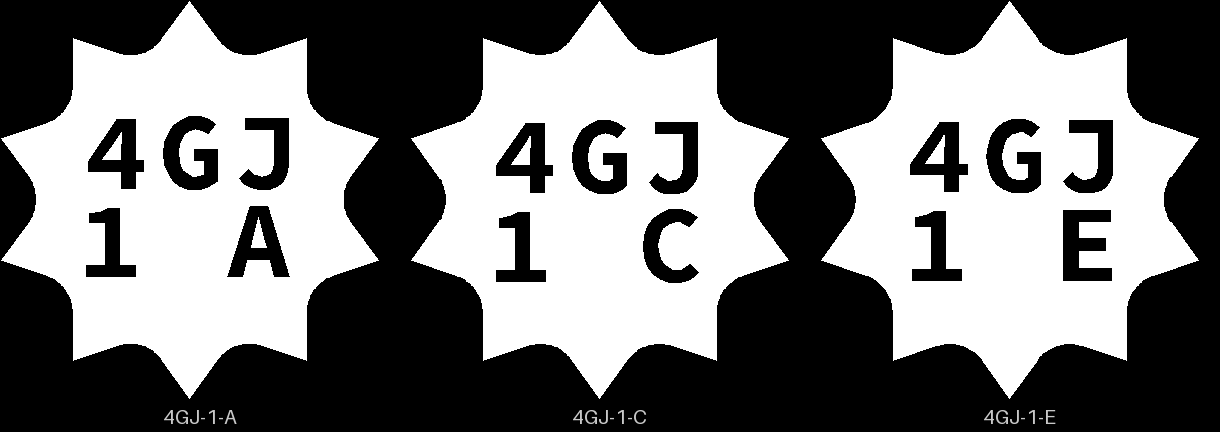
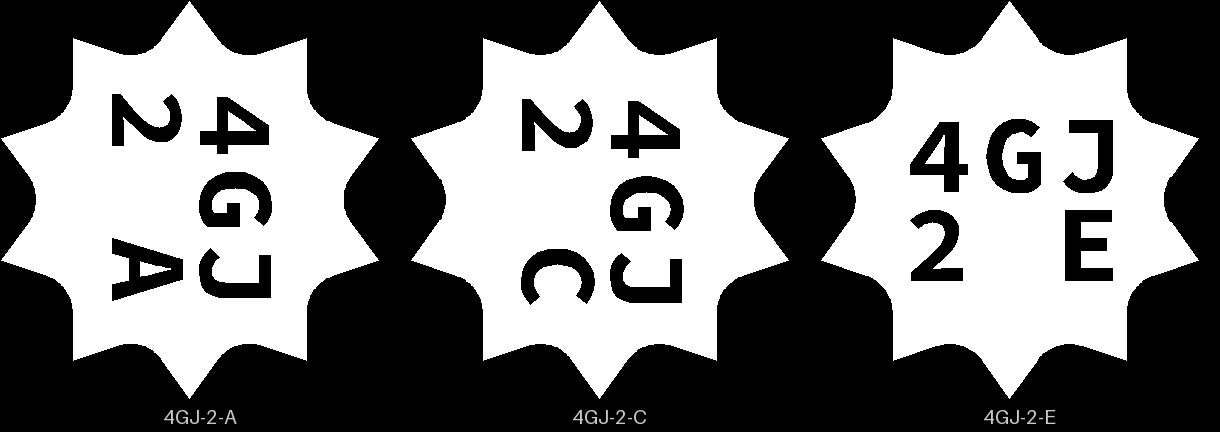
plates: sheets-04g-fit3 iteration 2 — a 3 coaster, and the kite step read off the slice
- The coaster carries `3`, not `Z`: `id_form: piece` cuts one
  character, and three Z coasters could not be told apart on the
  table. Recorded with plate_approve --iterate (iteration 2), so the
  middle pieces now read 4GJ 2A, 2C, 2E. Pictures redrawn, and the
  coaster's bottom added.
- tools/fit_gap.py: `walls` handed each loop to the nearest expected
  size, and with the kites at 0.05 and 0.075 (0.3 mm² apart) every
  loop went to the 0.05 group. It now pairs whole slice objects to
  groups by size when as many objects as groups come near; a self-test
  covers it. fit2's middles still read +0.001/+0.025/+0.051.
- The page's new "What the slice lays down": the 0.025 kite step
  survives the slice at every height.
- Backlog: a one-letter bottom id leaves the gBV minimal coaster's mesh
  open (bikar's check fails it), and compose renders without --check.
- The issue doc: the fit moved "not in the outlines or the settings",
  narrower than "not in the files".

Claude-Session: https://claude.ai/code/session_01BsHUAhF5DsA3qgXDY11oZz

Changed region(s): [[0.0623, 0.2106, 0.2492, 0.6921], [0.4049, 0.2407, 0.5918, 0.7222], [0.7475, 0.4815, 0.8098, 0.6319]]

diff --git a/tools/fit_gap.py b/tools/fit_gap.py
@@ -349,12 +349,27 @@ def assign_loops(ls, groups, target, shared=False):
     return out
 
 
+def assign_objects(objs, groups, target):
+    """Piece wall loops to groups, a whole slice object at a time. Each group is its own object
+    on the plate, so when as many objects as groups come near a group's expected loop area, they
+    pair in order of size: the biggest object with the biggest group. Loop by loop, a step
+    smaller than the slicer's own offset sends every loop to one group (sheets-04g-fit3's kites
+    at 0.05 and 0.075, 0.3 mm² apart, all twenty went to the 0.05). Otherwise, loop by loop."""
+    mean = lambda ls: sum(abs(area(lw[0])) for lw in ls) / len(ls)
+    near = {o: ls for o, ls in objs.items()
+            if ls and any(abs(math.log(mean(ls) / target(groups[g]))) < 0.5 for g in groups)}
+    if len(near) == len(groups) > 1:
+        by_size = sorted(near, key=lambda o: mean(near[o]))
+        return {g: near[o] for g, o in zip(sorted(groups, key=lambda g: target(groups[g])), by_size)}
+    return assign_loops([lw for ls in near.values() for lw in ls], groups, target)
+
+
 def walls_report(plate, frame, pieces, z):
     text = plate_gcode(plate)
     h, objs = gcode_walls(text, z)
     frame_label = max(objs, key=lambda o: len(objs[o]))
     pocket_loops = sorted(objs[frame_label], key=lambda lw: abs(area(lw[0])))[:-1]  # drop the rim
-    piece_loops = [lw for o, ls in objs.items() if o != frame_label for lw in ls]
+    piece_objs = {o: ls for o, ls in objs.items() if o != frame_label}
     loops = slice_loops(load_triangles(frame), z)
     print(f"slicer outer walls on the layer at z = {h} mm (frame object {frame_label})")
     print(f"{'group':8} {'width':>5} {'pieces':>6} {'piece edge in':>13} {'pockets':>7} "
@@ -369,7 +384,7 @@ def walls_report(plate, frame, pieces, z):
         if m is not None:
             groups[Path(path).stem] = (m, shape(m["_piece"]), shape(m["_pocket"]))
 
-    piece_of = assign_loops(piece_loops, groups, lambda s: s[1][0] - s[1][1] * 0.21)
+    piece_of = assign_objects(piece_objs, groups, lambda s: s[1][0] - s[1][1] * 0.21)
     pocket_of = assign_loops(pocket_loops, groups, lambda s: s[2][0] + s[2][1] * 0.21, shared=True)
     for g, (m, (A, P, k), (Ah, Ph, kh)) in groups.items():
         mine, holes = piece_of[g], pocket_of[g]
@@ -447,6 +462,14 @@ def self_test():
         ("a ladder's piece loops go one to each group",
          [len(pieces["g0"]), len(pieces["g1"])] == [1, 1] and pieces["g1"][0][0] == sq(4.9)),
         ("a ladder's one hole goes to every group", [len(holes["g0"]), len(holes["g1"])] == [1, 1]),
+    ]
+    # The same ladder sliced with every loop 0.2 mm bigger, as two objects, beside a far piece:
+    # loop by loop, both 10.2 (104) and 10.0 (100) are nearest g0; by object, each to its own.
+    sliced = {"7": [(sq(5.1), 0.4)] * 3, "8": [(sq(5.0), 0.4)] * 3, "9": [(sq(20), 0.4)]}
+    by_obj = assign_objects(sliced, groups, lambda s: s[1][0])
+    checks += [
+        ("a ladder sliced with a common offset pairs object to group by size",
+         by_obj["g0"] == sliced["7"] and by_obj["g1"] == sliced["8"]),
     ]
     # A 2 mm stud on a lower at (10, 0) and a 2.1 mm socket on an upper at (40, 0), as wall
     # paths 0.42 wide: the stud's path is 1.58 across, the socket's 2.52. A square letter on

diff --git a/docs/design/plates/sheets-04g-fit3.md b/docs/design/plates/sheets-04g-fit3.md
@@ -1,7 +1,7 @@
 ---
 plate: sheets-04g-fit3
 recipe: sheets-04g-fit3.yaml
-iteration: 1
+iteration: 2
 stage: proposed
 times_printed: 0
 runs: []
@@ -21,6 +21,7 @@ risk: watch
 pictures:
   - sheets-04g-fit3-media/bed.png
   - sheets-04g-fit3-media/ids.png
+  - sheets-04g-fit3-media/ids-coaster.png
   - sheets-04g-fit3-media/kites.png
 ---
 
@@ -38,11 +39,13 @@ two controls, the kites at 0.05 and at a looser 0.075, and a fresh coaster to tr
 Recipe: [sheets-04g-fit3.yaml](sheets-04g-fit3.yaml). The same size as sheets-04g-fit2 (112.5 mm
 across, 3.75 mm straps, 4.4 mm tall).
 
-- **The coaster:** the gBV minimal coaster, as sheets-04g-fit2 printed it, with `Z` on its bottom.
+- **The coaster:** the gBV minimal coaster, as sheets-04g-fit2 printed it, with `3` on its
+  bottom (fit and fit2 both carried `Z`).
 - **The middle piece at the same three gaps as fit2:** 0, 0.025 and 0.05 mm per face, with the
   same dots (three, two, one) and the same letters (A, C, E). The code `4GJ` tells them from
   fit2's `4GH` pieces.
-- **Ten kites at 0.05, one dot each:** the control. On fit2 they were tough to push in.
+- **Ten kites at 0.05, one dot each:** the control. On fit2 they were tough to push in. The
+  outline is fit2's; the dot is new, so the file is not the same one.
 - **Ten kites at 0.075, no dot.** This is an assumption, not a decision: halfway between 0.05
   ("tought to insert") and sheets-04g-fit's 0.10 ("too small/lost"). A kite has no room for a
   carved id, so the dot is how the two piles are told apart. The dot is in the top, so it does
@@ -50,8 +53,8 @@ across, 3.75 mm straps, 4.4 mm tall).
 
 ## Why print it
 
-- **The question:** does `4GJ 1C` (0.025) sit firmer than `4GJ 1E` and go in easier than
-  `4GJ 1A` again? And does a 0.075 kite go in easier than a 0.05 one and still stay in upside down?
+- **The question:** does `4GJ 2C` (0.025) sit firmer than `4GJ 2E` and go in easier than
+  `4GJ 2A` again? And does a 0.075 kite go in easier than a 0.05 one and still stay in upside down?
 - **The bet it moves:** CAL-LSE-01, the loose-piece gap per face by shape in a straps-only frame
   ([bets.md](../../../.claude/skills/calibrate/bets.md)).
 - **What it lets us decide:** the middle piece's gap and the kites' gap on the next sheets-04g
@@ -62,16 +65,18 @@ across, 3.75 mm straps, 4.4 mm tall).
 ## After the print
 
 What gets asked when the plate comes off the bed, one row at a time (the review-print skill asks
-them). Each middle piece is named by the id cut into its bottom: `4GJ 1A` reads 4GJ over 1 A. The
-fresh coaster carries a small `Z`. The kites have no id: the 0.05 ones have one dot in the top, the
-0.075 ones none. Keep this plate's pieces apart from fit2's; the codes differ (4GJ here, 4GH there),
-but the kites look the same.
+them). Each middle piece is named by the id cut into its bottom: `4GJ 2A` reads 4GJ over 2 A
+(the 2 is the recipe's second version; the first, with a `Z` coaster, was never printed). The
+fresh coaster carries a small `3`, not the `Z` that fit's and fit2's coasters carry, so the three
+coasters are never mixed up. The kites have no id: the 0.05 ones have one dot in the top, the
+0.075 ones none. Keep this plate's pieces apart from fit2's; the codes differ (4GJ here, 4GH
+there), but fit2's kites look like this plate's plain ones.
 
 | Pieces | The question | What we expect, and why | What each answer changes |
 |---|---|---|---|
-| `4GJ 1A` (gap 0, three dots on top), `4GJ 1E` (0.05, one dot), the fresh coaster (`Z` on its bottom) | **Do:** Push `4GJ 1A` by hand into the middle hole of the `Z` coaster, then take it out. Do the same with `4GJ 1E`. **Look for:** Is `4GJ 1A` very tight, as `4GH 1A` was? Is `4GJ 1E` loose, as `4GH 1E` was? Say each by its id. | The same as on fit2: 1A very tight, 1E loose. | Same: this coaster's holes match fit2's, and the next row is read as it is. Different: the holes moved again, so the next row is read against these two, not against fit2. |
-| `4GJ 1C` (0.025, two dots), the `Z` coaster | **Do:** Push `4GJ 1C` by hand into the middle hole of the `Z` coaster. Hold the coaster upside down over the table, then pull the piece out with a fingertip. **Look for:** Does it go in without forcing? Does it stay in upside down? Is it firmer than `4GJ 1E` and easier than `4GJ 1A`? | The winner again: in by hand, stays upside down, between the two. | Yes: 0.025 is the middle piece's gap, now on two prints. No: the step is inside how much the fit moves from print to print, and the gap is picked from the controls you like best over both plates. |
-| The kites with one dot (0.05), the kites with no dot (0.075), the `Z` coaster | **Do:** Push three dotted kites by hand into three kite holes of the `Z` coaster, and three plain kites into three others. Then hold the coaster upside down over the table. **Look for:** Which go in easier? Do both kinds stay in upside down? | The plain 0.075 kites go in easier than the dotted 0.05 ones, and both stay in. | Plain easier and staying: 0.075 is the kites' gap. Plain falling out: the gap sits between 0.05 and 0.075, and 0.05 stays for now. Both the same: the 0.025 step is lost in the print, as above. |
+| `4GJ 2A` (gap 0, three dots on top), `4GJ 2E` (0.05, one dot), the fresh coaster (`3` on its bottom) | **Do:** Push `4GJ 2A` by hand into the middle hole of the `3` coaster, then take it out. Do the same with `4GJ 2E`. **Look for:** Is `4GJ 2A` very tight, as `4GH 1A` was? Is `4GJ 2E` loose, as `4GH 1E` was? Say each by its id. | The same as on fit2: 2A very tight, 2E loose. | Same: this coaster's holes match fit2's, and the next row is read as it is. Different: the holes moved again, so the next row is read against these two, not against fit2. |
+| `4GJ 2C` (0.025, two dots), the `3` coaster | **Do:** Push `4GJ 2C` by hand into the middle hole of the `3` coaster. Hold the coaster upside down over the table, then pull the piece out with a fingertip. **Look for:** Does it go in without forcing? Does it stay in upside down? Is it firmer than `4GJ 2E` and easier than `4GJ 2A`? | The winner again: in by hand, stays upside down, between the two. | Yes: 0.025 is the middle piece's gap, now on two prints. No: the step is inside how much the fit moves from print to print, and the gap is picked from the controls you like best over both plates. |
+| The kites with one dot (0.05), the kites with no dot (0.075), the `3` coaster | **Do:** Push three dotted kites by hand into three kite holes of the `3` coaster, and three plain kites into three others. Then hold the coaster upside down over the table. **Look for:** Which go in easier? Do both kinds stay in upside down? | The plain 0.075 kites go in easier than the dotted 0.05 ones, and both stay in. | Plain easier and staying: 0.075 is the kites' gap. Plain falling out: the gap sits between 0.05 and 0.075, and 0.05 stays for now. Both the same: the 0.025 step is lost in the print, as above. |
 
 ## Pictures
 
@@ -84,24 +89,53 @@ corners of the bed, so each comes off as its own pile.
 | the middle | COASTER | amber |
 | back left, one diagonal row of kites | KITE 0.05 (one dot each) | blue |
 | front right, one diagonal row of kites | KITE 0.075 (no dot) | green |
-| left | MIDDLE 0.025 (`4GJ 1C`) | purple |
-| front, the left one of two | MIDDLE 0.05 (`4GJ 1E`) | yellow |
-| front, the right one of two | MIDDLE 0 (`4GJ 1A`) | pink |
+| left | MIDDLE 0.025 (`4GJ 2C`) | purple |
+| front, the left one of two | MIDDLE 0.05 (`4GJ 2E`) | yellow |
+| front, the right one of two | MIDDLE 0 (`4GJ 2A`) | pink |
 
 ![sheets-04g-fit3 on the bed: the coaster in the middle, two rows of ten kites and three middle pieces round it, each labeled with its gap](sheets-04g-fit3-media/bed.png)
 
 The ids cut into the three middle pieces' bed faces, seen from below (D-109): A is the 0 gap, C
 0.025 and E 0.05, the same letters as on fit2 under a new code.
 
-![The bottoms of the three middle pieces: ten-pointed pieces reading 4GJ over 1 and A, C or E](sheets-04g-fit3-media/ids.png)
+![The bottoms of the three middle pieces: ten-pointed pieces reading 4GJ over 2 and A, C or E](sheets-04g-fit3-media/ids.png)
 
-The coaster carries a small `Z` on a strap left of the middle, in the same place as on
-sheets-04g-fit ([its picture](sheets-04g-fit-media/ids-coaster.png)).
+The coaster from below: a small `3`, 2.6 by 3.5 mm, cut into a strap near the middle.
+
+![The coaster from below: the gBV star with a small 3 on a strap by the middle hole](sheets-04g-fit3-media/ids-coaster.png)
 
 The two kite rungs from above (`tools/print_review.py art`, the tops only): one dot in each 0.05
 kite, none in the 0.075. The dot is 1 mm across.
 
 ![Two rows of ten kites from above: the 0.05 ones each with one dot, the 0.075 ones plain](sheets-04g-fit3-media/kites.png)
+
+## What the slice lays down
+
+A 0.025 mm step on a piece this small could be rounded away by the slicer, and then the third
+question's answer would say nothing about the print. It is not rounded away. Read off the slice's
+own wall paths with `python3 tools/fit_gap.py walls <plate.3mf> <frame.stl> <piece.stl>...`,
+against the coaster and both kite groups rendered where their holes are, the gap per face:
+
+| Height | kites at 0.05 | kites at 0.075 |
+|---|---|---|
+| 0.2 mm, the first layer | +0.265 | +0.287 |
+| 2.0 mm, the straight wall | +0.044 | +0.069 |
+| 3.8 mm, under the top round | +0.251 | +0.275 |
+
+At every height the two stay 0.022 to 0.025 apart. On the first layer one extra loop joins the
+coaster's holes (the carved `3` most likely), so read that row as rough. Reading the kites took a
+fix to `fit_gap.py`: it used to hand each wall loop to the nearest expected size, and with two
+groups 0.3 mm² apart every loop went to the 0.05 group. It now pairs whole slice objects to groups
+by size. So the step is there in the walls the printer is told to lay down: if the two kite piles
+feel the same, the cause is in the print, not the slice.
+
+The middle pieces have the same outlines as fit2's (only the carved id differs), and their slice
+check is on [fit2's page](sheets-04g-fit2.md#what-the-slice-lays-down); re-read with the fixed
+tool, fit2's three still come out +0.001, +0.025 and +0.051 at 2.0 mm.
+
+The coaster's mesh is not closed: the carved `3` leaves small defects in it (bikar's own check
+fails it; with no id it passes). The slicer patches them, as it did for the `Z` on fit and fit2,
+both of which printed. The fix is in the print-infrastructure backlog.
 
 ## Cost and risk
 
@@ -133,4 +167,4 @@ Every yes or hold Omar gives this plate, one row each, oldest first (D-096). A t
 | Date | What happened | Where it is written |
 |---|---|---|
 | 2026-10-10 | proposed: the middle piece at 0, 0.025 and 0.05 mm again, the kites at 0.05 and 0.075, and a fresh coaster, after fit2 picked 0.025 and found the 0.05 kites tough to push in, and the same files fit differently on two prints | [sheets-04g-fit2](sheets-04g-fit2.md), [the issue](../../issues/sheets-04g-fit.md#the-same-file-a-different-fit) |
-| 2026-10-10 | sliced: local slice fits one bed, 70 minutes, 19.4 g, no slicer warnings; the carved ids read `4GJ 1A`, `1C` and `1E` from below, and the 0.05 kites carry their dot | this page |
+| 2026-10-10 | sliced: local slice fits one bed, 70 minutes, 19.4 g, no slicer warnings; iteration 2 gives the coaster a `3` in place of `Z`; the carved ids read `4GJ 2A`, `2C` and `2E` from below, the 0.05 kites carry their dot, and the 0.025 kite step survives the slice | this page |

diff --git a/docs/tasks/print-infrastructure/backlog.md b/docs/tasks/print-infrastructure/backlog.md
@@ -12,7 +12,15 @@ look at, and a failure that names its cause.
 Order within the list: a check that passes wrongly first, then a step done by hand on every
 plate, then anything you can't see before sending, then config ergonomics.
 
-1. **A plate-packing skill: try layouts, measure the empty bed, keep the best.** Lay a plate's
+1. **A carved id leaves the gBV minimal coaster's mesh open, and compose does not check.** The
+   coaster at sheets-04g-fit3's size passes bikar's mesh check with no id, and fails it with any
+   one-letter `--bottom-id` (`Z` and `3` alike, round 1.25 or 0): not watertight, 13 to 22
+   degenerate triangles, and about 79,000 triangles in place of 131,000. `slice compose` renders
+   without `--check`, so the open mesh goes to the slicer, which patched it on sheets-04g-fit and
+   fit2 (both printed). Two fixes: find the cut's defect in bikar's bottom-id on a
+   frame with many holes, and have compose render with `--check` so the next one stops at the
+   recipe. The middle pieces with a full id pass. Found on sheets-04g-fit3, 2026-10-10.
+2. **A plate-packing skill: try layouts, measure the empty bed, keep the best.** Lay a plate's
    pieces out several ways, measure each with `python3 tools/plate_grade.py --fill`, and keep
    the fullest that still slices clean. Worth less since D-098 (2026-10-04): the fill bar is 0,
    so packing no longer decides whether a plate is production; it now saves time and filament

diff --git a/docs/issues/sheets-04g-fit.md b/docs/issues/sheets-04g-fit.md
@@ -165,9 +165,9 @@ What was the same, read off the two sliced files:
   (148.3, 134.4) on the second, 2.2 mm apart.
 - **Same printer, same smooth glacier plate, same spool of pink PLA Basic**, the same day, about two hours apart.
 
-So whatever moved the fit happened at the printer or in the hand, not in the files. Nothing was
-measured with calipers, so it stays unknown which moved: the coaster's holes, the pieces, or the
-feel. The likely suspects are a first layer squashed more or less (the bottom edge flares
+So whatever moved the fit happened at the printer or in the hand, not in the outlines or the
+settings. Nothing was measured with calipers, so it stays unknown which moved: the coaster's
+holes, the pieces, or the feel. The likely suspects are a first layer squashed more or less (the bottom edge flares
 outward, which tightens a piece going in bed face first), how the plate was cleaned, and the
 room. None of them was checked.
 
